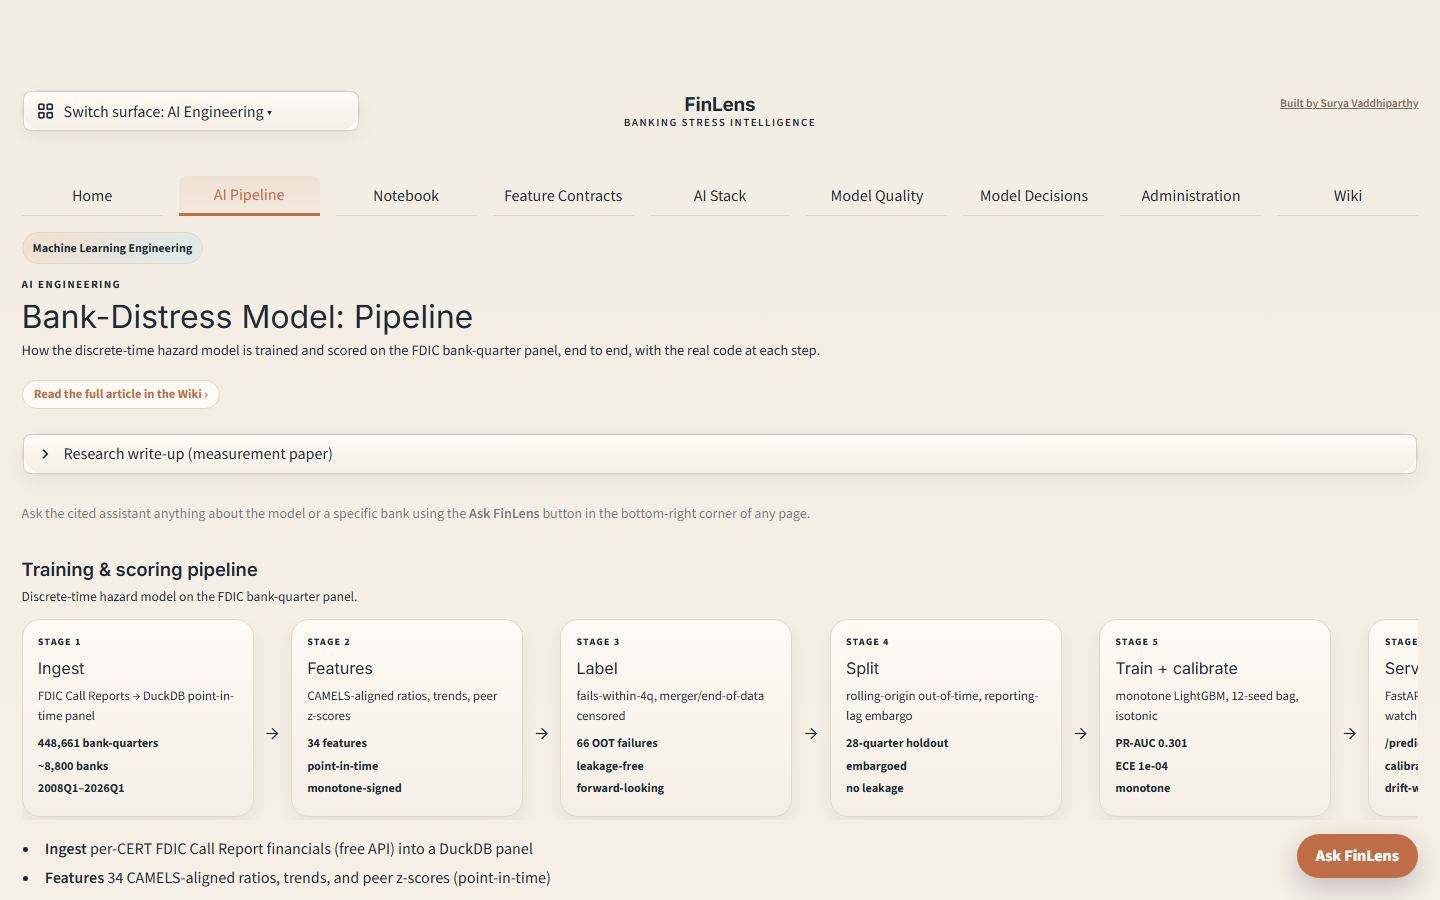
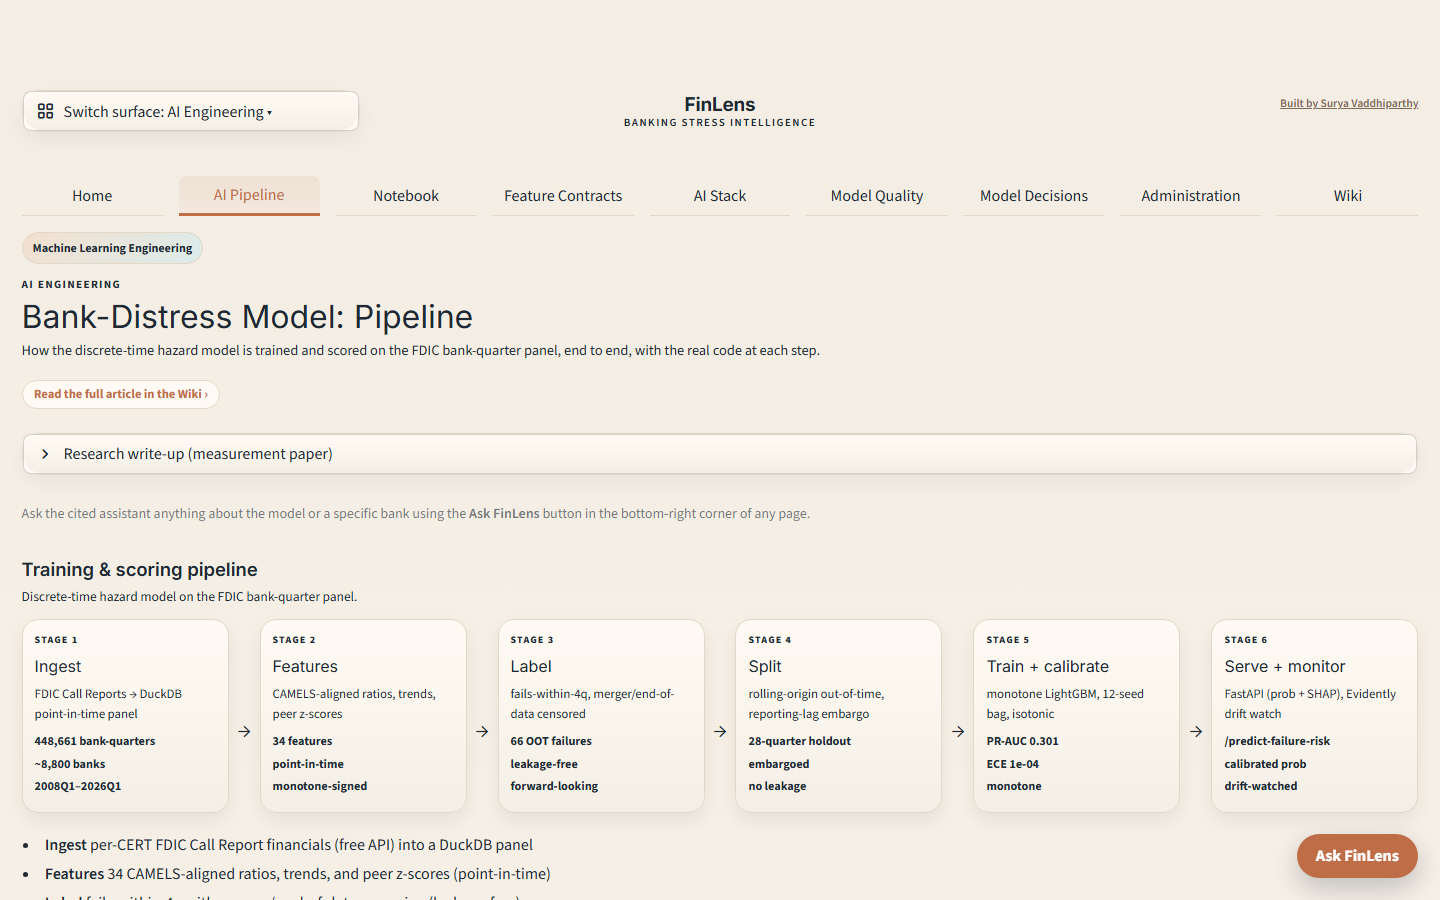
Beautification: fit AI pipeline stage cards in one row; equalize wiki home cards
- AI Pipeline: the 6 stage cards used a fixed min-width and overflow-scrolled (Stage 6 clipped);
  now flex-share the row equally so all six fit with no horizontal scroll (final adversarial
  review's only HIGH).
- Wiki home: clamped card summaries to 2 lines so the grid rows have uniform card heights
  (no more ragged short/tall cards).

Changed region(s): [[0.1562, 0.6844, 1.0, 0.9022], [0.0312, 0.9333, 0.375, 1.0], [0.0312, 0.6844, 0.1562, 0.9022]]

diff --git a/streamlit_app/lib/theme.py b/streamlit_app/lib/theme.py
@@ -1817,6 +1817,11 @@ def _build_app_css(mode: str, sidebar_open: bool = False) -> str:
         color: {palette["text_muted"]};
         font-size: .76rem;
         line-height: 1.4;
+        display: -webkit-box;
+        -webkit-line-clamp: 2;
+        -webkit-box-orient: vertical;
+        overflow: hidden;
+        min-height: 2.13rem;
     }}
     .browser-stage-anchor + div button {{
         min-height: 4.2rem !important;
@@ -2082,20 +2087,20 @@ def _build_app_css(mode: str, sidebar_open: bool = False) -> str:
     }}
     .flow-grid {{
         display: flex;
-        gap: .75rem;
+        gap: .55rem;
         align-items: stretch;
         margin-bottom: .8rem;
-        overflow-x: auto;
         padding-bottom: .2rem;
     }}
     .flow-card {{
         background: linear-gradient(180deg, {palette["content_bg"]}, {palette["sand"]});
         border: 1px solid {palette["border"]};
-        border-radius: 18px;
-        padding: .92rem .95rem;
+        border-radius: 16px;
+        padding: .8rem .75rem;
         box-shadow: 0 8px 18px rgba(15, 23, 42, 0.06);
         min-height: 11rem;
-        min-width: 14.5rem;
+        flex: 1 1 0;
+        min-width: 0;  /* share the row equally so all stages fit without horizontal scroll */
     }}
     .flow-step {{
         color: {palette["text_soft"]};
